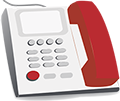
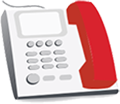
Some animations

diff --git a/scripts/exam_room.js b/scripts/exam_room.js
@@ -94,15 +94,19 @@ function array_equal(arr1, arr2) {
 }
 
 function hide_exam_room() {
-  EndTime = 0
-  if (lobby_events.finished_case_studies.length >= 3) {
-    prompt_evaluation_screen(exam_room_events.the_case_study);
-  }
-  clear_exam_room_assets();
-  $('.container .exam-room').hide();
-  enter_lobby();
-
   $.fancybox.close();
+  $('img#exam_room').attr('src', 'img/exam_room_open.jpg');
+  play_sound(sounds.door_opening);
+  setTimeout( function() { EndTime = 0
+    if (lobby_events.finished_case_studies.length >= 3) {
+      prompt_evaluation_screen(exam_room_events.the_case_study);
+    }
+    clear_exam_room_assets();
+    $('.container .exam-room').hide();
+    enter_lobby();
+    $('img#exam_room').attr('src', 'img/exam_room.jpg');
+  }, 1500);
+  
 }
 
 function clear_exam_room_assets() {
@@ -235,5 +239,33 @@ $(document).ready(function(){
     pause_exam();
   });
 
+  $('#iphone.exam').on('mouseover', function(jsEvent) {
+    ringing_iphone_interval = setInterval(function(){ set_ringing_image('iphone'); play_sound('phone'); }, 150);
+  }).on('mouseout', function(jsEvent) {
+    $('#iphone.exam img').attr('src', 'img/exam_room/iphone.png');
+    clearInterval(ringing_iphone_interval);
+  });
+
+  $('#phone.exam').on('mouseover', function(jsEvent) {
+    ringing_phone_interval = setInterval(function(){ set_ringing_image('phone'); play_sound('phone') }, 150);
+  }).on('mouseout', function(jsEvent) {
+    $('#phone.exam img').attr('src', 'img/exam_room/phone.png');
+    clearInterval(ringing_phone_interval);
+  });
 
 });
+
+function set_ringing_image(id) {
+  var $img = $('#' + id + '.exam img');
+  var phone = '';
+
+  if ($img.data('ringing') != '') {
+    phone = id + '.png';
+    $img.data('ringing', '');
+  } else {
+    phone = id + '_ringing.png';
+    $img.data('ringing', 'ringing');
+  }
+
+  $img.attr('src', 'img/exam_room/' + phone);
+}
